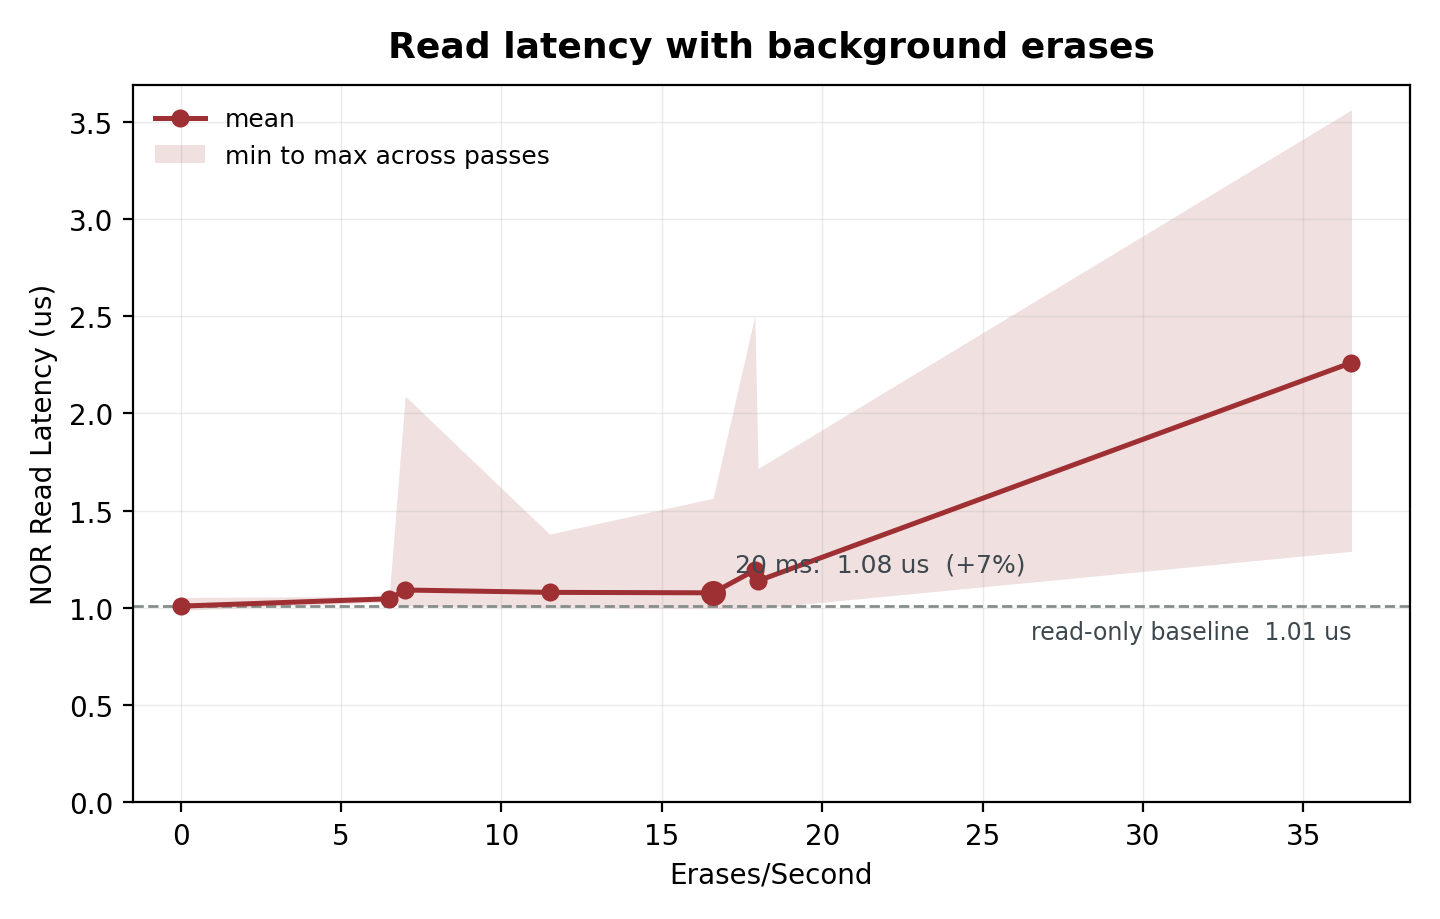
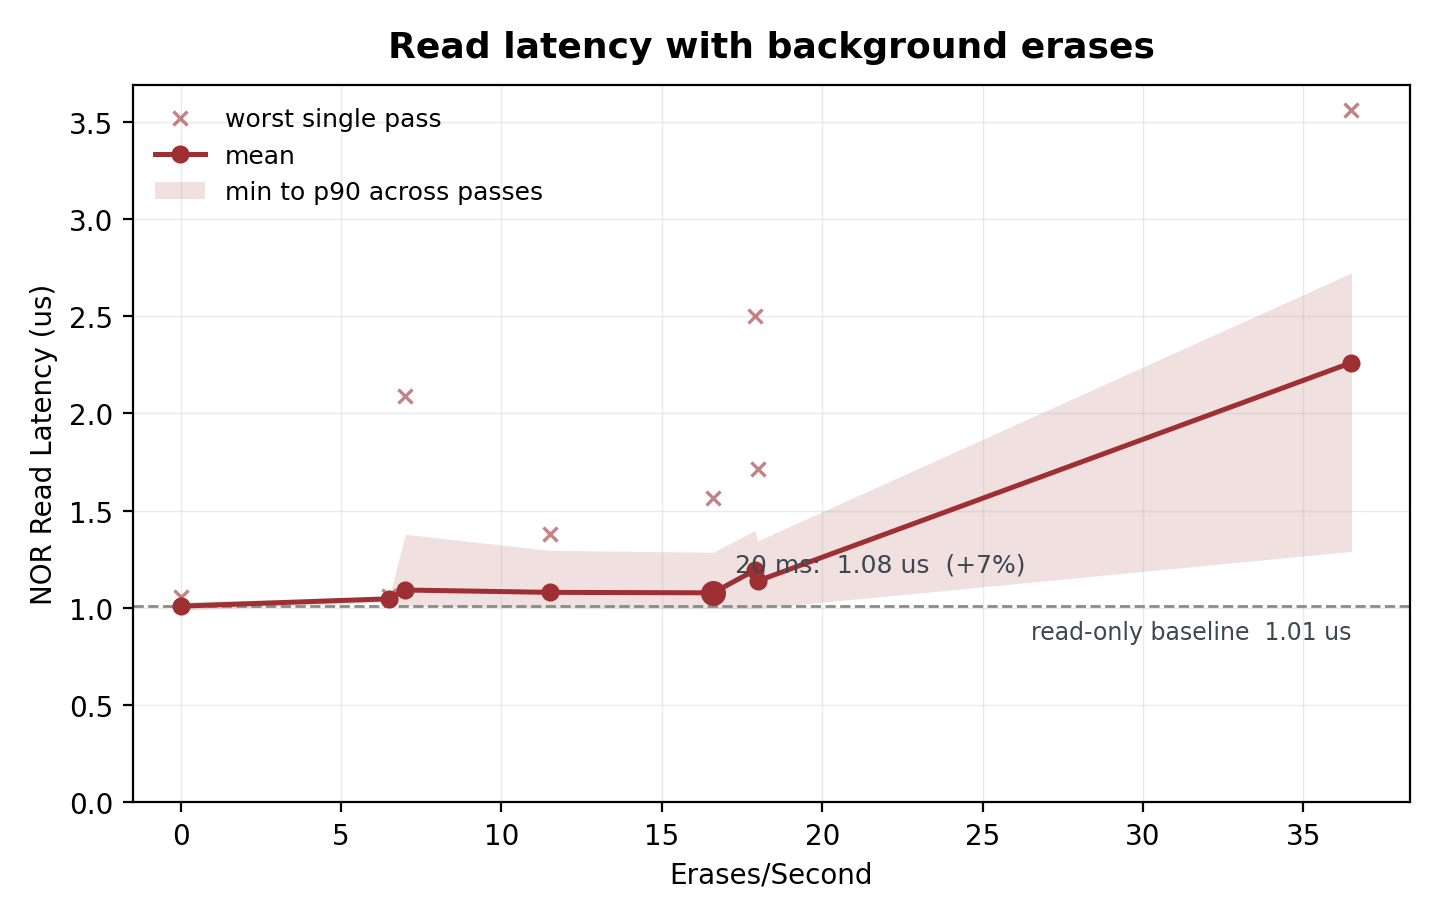
fig4/4b: band is min to p90, max drawn as an outlier
The upper edge was the single worst pass out of ~150, which is one sample and
therefore need not move monotonically -- at poll 60 it reads 2089 against a
p90 of 1379, one pass sitting 700 ns above the rest of the distribution, and
that made the band widen and narrow with no relation to the erase rate.

p90 is the envelope that behaves. The worst pass is still worth seeing, so it
is plotted as separate crosses rather than allowed to define the band.

Changed region(s): [[0.25, 0.1219, 0.9375, 0.6094], [0.0938, 0.1219, 0.375, 0.2133], [0.125, 0.6398, 0.1562, 0.6703]]

diff --git a/scripts/plot_selftest.py b/scripts/plot_selftest.py
@@ -84,7 +84,7 @@ if r:
             return None
         return lo_[1] + (target - lo_[0]) / (hi_[0] - lo_[0]) * (hi_[1] - lo_[1])
 
-    def draw(xs, ys, lo, hi, xlab, fname, title, xlim_left=None, mark=None):
+    def draw(xs, ys, lo, hi, xlab, fname, title, xlim_left=None, mark=None, worst=None):
         fig, ax = plt.subplots(figsize=(7.2, 4.6))
         if base:
             ax.axhline(base / US, color=C_GRID, ls="--", lw=1)
@@ -93,8 +93,17 @@ if r:
                         ha="right", va="top", xytext=(0, -5),
                         textcoords="offset points")
         if lo and hi:
+            # min to p90, not min to max. The max is the single worst pass out
+            # of ~150, so it is one sample and need not move monotonically --
+            # at poll 60 it reads 2089 against a p90 of 1379, one outlier
+            # sitting 700 ns above the rest of the distribution. The envelope
+            # is the thing that behaves; the outlier is worth showing, but not
+            # worth letting define the band.
             ax.fill_between(xs, lo, hi, color=C_NOR, alpha=.15, lw=0,
-                            label="min to max across passes")
+                            label="min to p90 across passes")
+        if worst:
+            ax.plot(xs, worst, marker="x", ls="none", color=C_NOR, ms=5,
+                    mew=1.2, alpha=.6, label="worst single pass")
         ax.plot(xs, ys, marker=M_COLD, ls="-", color=C_NOR, lw=1.8, ms=5.5, zorder=3,
                 label="mean" if lo else None)
         if mark and base:
@@ -116,8 +125,9 @@ if r:
     draw([float(x["erase_rate_per_s"]) for x in ra],
          [col(x, "mean_ns", "ns_per_line") / US for x in ra],
          [col(x, "min_ns") / US for x in ra] if has_dist else None,
-         [col(x, "max_ns") / US for x in ra] if has_dist else None,
+         [col(x, "p90_ns") / US for x in ra] if has_dist else None,
          "Erases/Second", "fig4-read-vs-erase.png", TITLE, xlim_left=-1.5,
+         worst=[col(x, "max_ns") / US for x in ra] if has_dist else None,
          mark=(at_poll(r, TARGET, "erase_rate_per_s"), at_poll(r, TARGET, "mean_ns"))
               if at_poll(r, TARGET, "mean_ns") and at_poll(r, TARGET, "erase_rate_per_s") else None)
     made.append("fig4-read-vs-erase")
@@ -127,8 +137,9 @@ if r:
         draw([poll_val(x) for x in rb],
              [col(x, "mean_ns", "ns_per_line") / US for x in rb],
              [col(x, "min_ns") / US for x in rb] if has_dist else None,
-             [col(x, "max_ns") / US for x in rb] if has_dist else None,
+             [col(x, "p90_ns") / US for x in rb] if has_dist else None,
              "Erase Interval (ms)", "fig4b-read-vs-interval.png", TITLE, xlim_left=-4,
+             worst=[col(x, "max_ns") / US for x in rb] if has_dist else None,
              mark=(TARGET, at_poll(rb, TARGET, "mean_ns")) if at_poll(rb, TARGET, "mean_ns") else None)
         made.append("fig4b-read-vs-interval")
 
